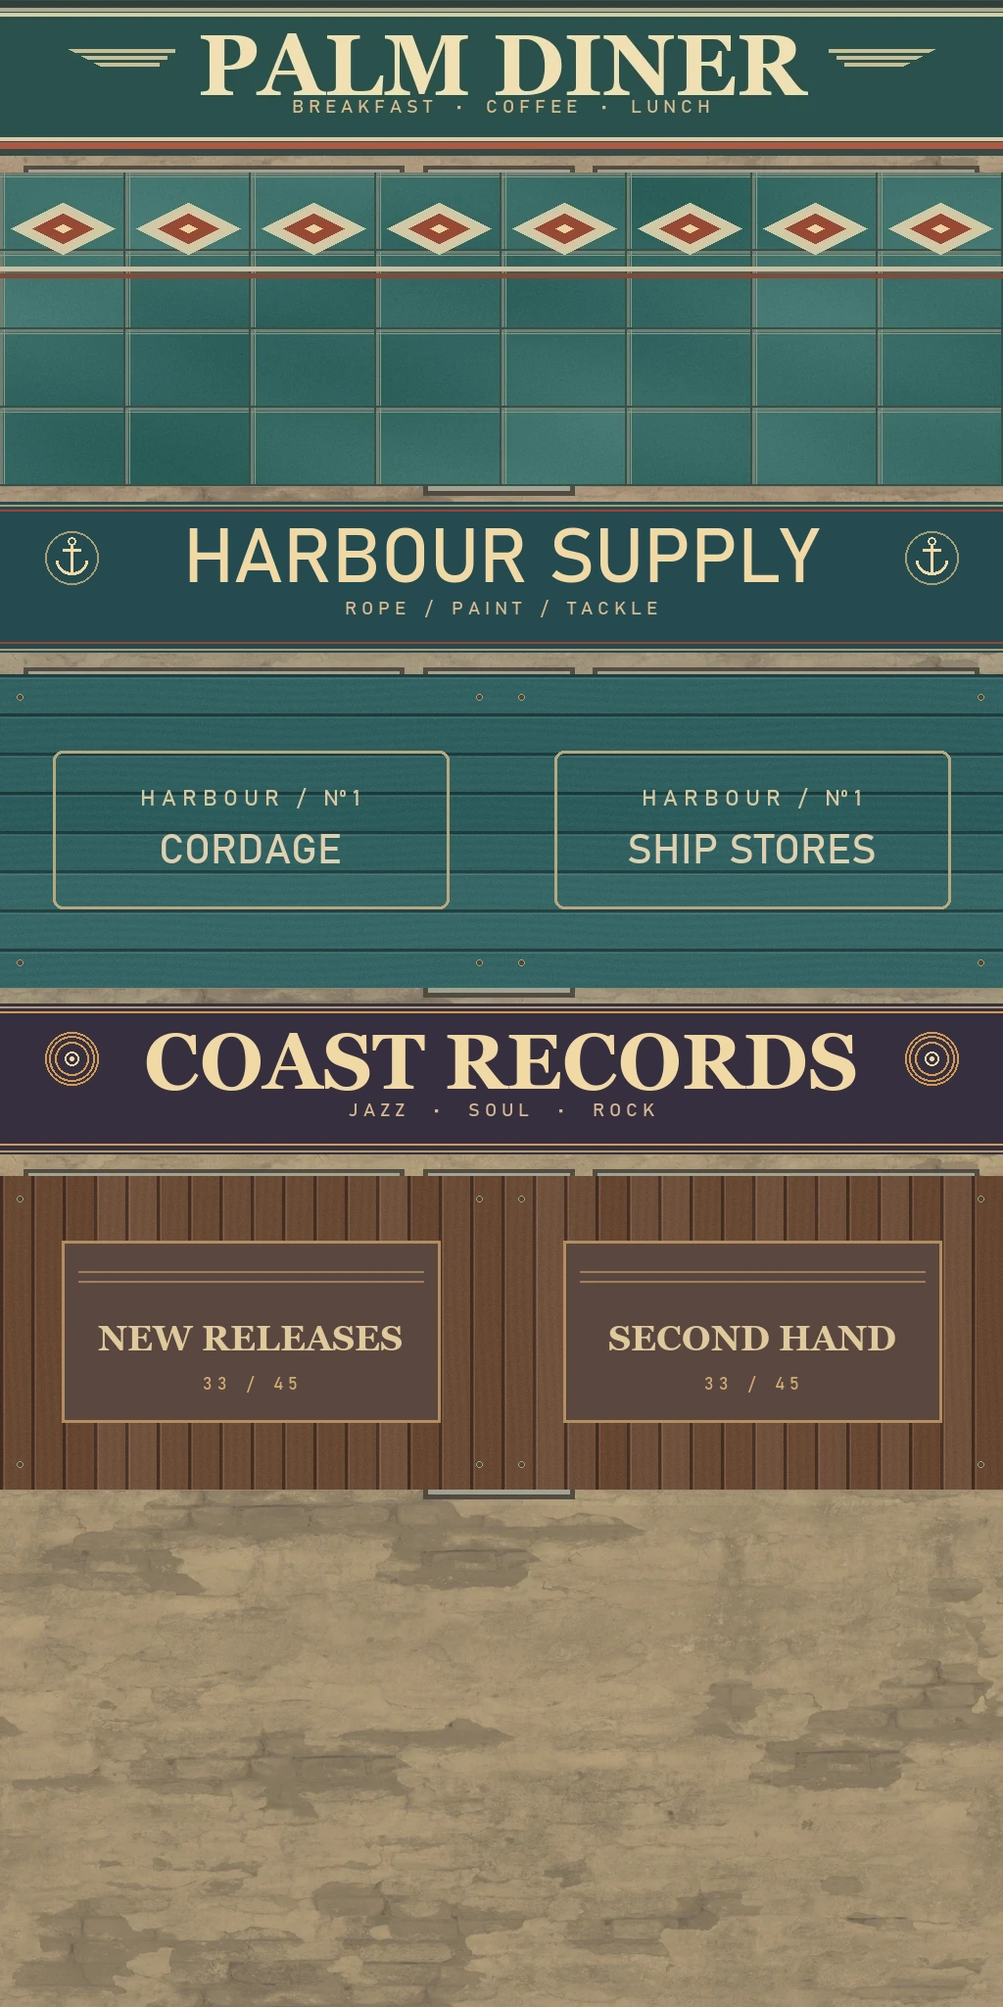
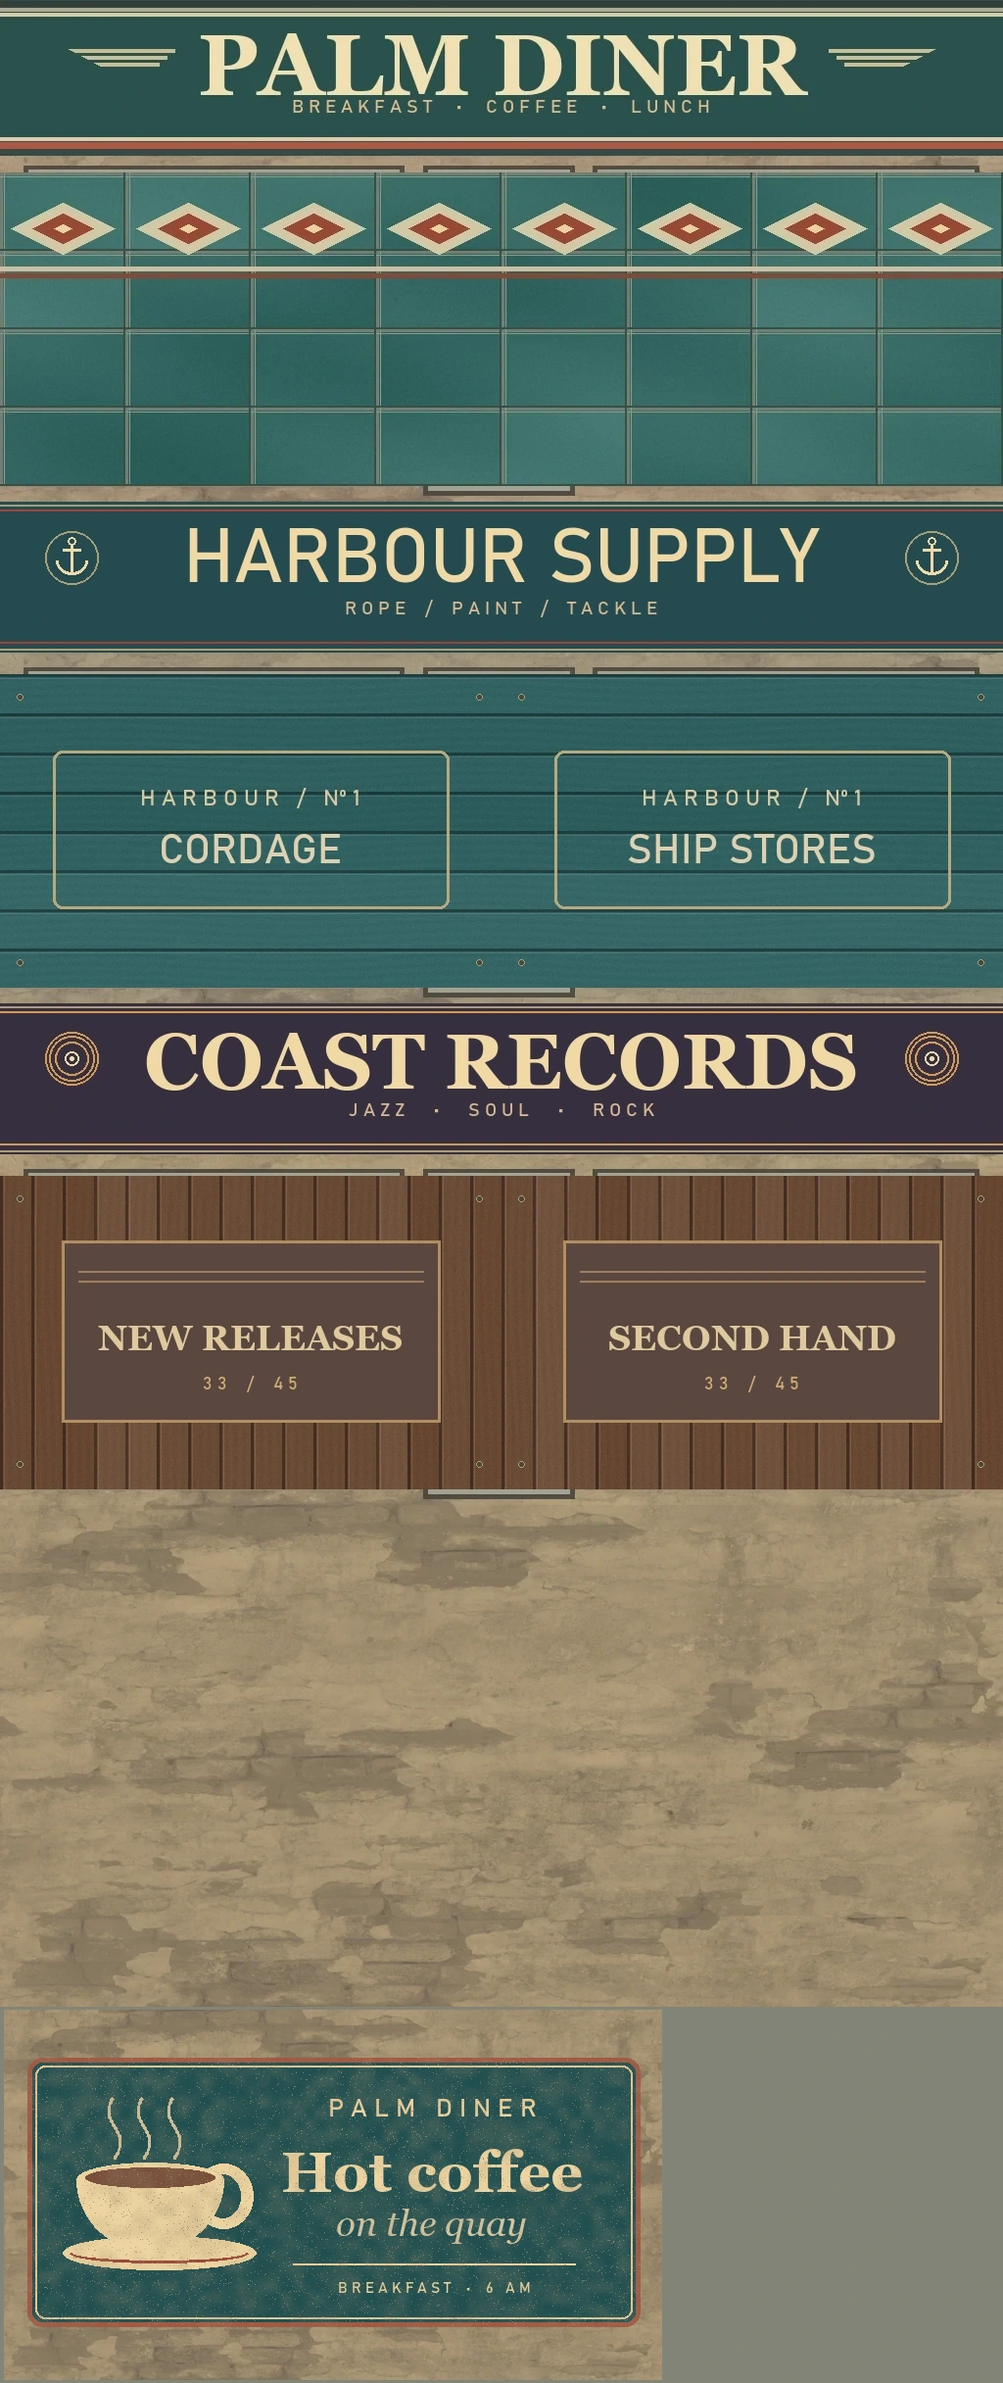
Skip redundant SMAA clears and detail Palm Diner wall

diff --git a/client/ReleaseNotes.tsx b/client/ReleaseNotes.tsx
@@ -6,7 +6,7 @@ const storageKey='eiserne-front-changelog';
 let acknowledgedInSession=false;
 const changes=[
  ['Island und Zeitreise','In der Lobby wählst du die Insel oder eine der drei historischen Karten. Kroenen ist in beiden Welten spielbar. Die übrigen Bonusfiguren und die Sprengrennwagen gehören zur Insel.'],
- ['Begehbare Harbour Road','Östlich der Radarstation liegen Palm Diner, Harbour Supply und Coast Records. Durch die offenen Eingänge gelangst du zu Sitznischen, Warenregalen und Plattenkisten. Die Läden haben eigene Böden, gerahmte Drucke, Verpackungen und Einrichtung. Bei Harbour Supply hängt ein illustrierter Musterkasten für Schiffszubehör samt aufgeschossener Leine. Im Palm Diner stehen Ketchup und Senf auf einem Emailletablett. Über dem Tresen hängt die illustrierte Frühstückskarte. Draußen greifen der petrolfarbene Fliesensockel und das neue Fassadenschild die Farben des Innenraums auf. Coast Records hat einen Hörplatz mit Holzlautsprechern und dem eigens gestalteten Albumcover „Low Water“. Harbour Supply und Coast Records haben eigene Fassadenschilder und beschriftete Schaufenstersockel. Pendelleuchten werfen warme Lichtkegel, und die Schaufenster haben profilierte Rahmen.'],
+ ['Begehbare Harbour Road','Östlich der Radarstation liegen Palm Diner, Harbour Supply und Coast Records. Durch die offenen Eingänge gelangst du zu Sitznischen, Warenregalen und Plattenkisten. Die Läden haben eigene Böden, gerahmte Drucke, Verpackungen und Einrichtung. Bei Harbour Supply hängt ein illustrierter Musterkasten für Schiffszubehör samt aufgeschossener Leine. Im Palm Diner stehen Ketchup und Senf auf einem Emailletablett. Über dem Tresen hängt die illustrierte Frühstückskarte. Draußen greifen der petrolfarbene Fliesensockel und das neue Fassadenschild die Farben des Innenraums auf. Die Ostwand trägt eine gemalte Kaffeereklame. Coast Records hat einen Hörplatz mit Holzlautsprechern und dem eigens gestalteten Albumcover „Low Water“. Harbour Supply und Coast Records haben eigene Fassadenschilder und beschriftete Schaufenstersockel. Pendelleuchten werfen warme Lichtkegel, und die Schaufenster haben profilierte Rahmen.'],
  ['Post vom Hafenamt','Die Geschäfte auf Island haben neue Aushänge. Außen an der Ostwand des Diners kannst du am Nachlassschalter mit E einen Bescheid ziehen. Auf Island hat die MP 40 einen Katzenaufsatz mit gedämpftem Schuss.'],
  ['Licht, Küste und Inselstraße','Ein fotografierter Himmel bestimmt Tageslicht und Reflexionen. Nebel und Nacht haben eigene Himmelsverläufe. Asphalt und Pflaster dunkeln bei Nebel durch Feuchtigkeit ab. Die Harbour Road führt durch eine ausgeschilderte Hafeneinfahrt zum Anleger und zum Hafenmeisterbüro. Durch die geöffneten Fenster siehst du das Funkpult, den Hafenplan und die Gezeitentafel. Hinter dem Anleger liegen Hafenkräne und der Frachter Tern Sound mit sichtbaren Stahlplattenstößen, Tiefgangsmarken, Ladebaum und Festmacherleinen. Am Ufer rollen gestaffelte Wellen mit schmalen Schaumkanten über nassen Sand, entlang der Straße wachsen Sträucher. Die Harbour Road hat einen Zebrastreifen, Straßenabläufe und einen gusseisernen Schachtdeckel mit Hafenanker und Schriftprägung. Gefaste Bordsteine, Pflasterrinnen und versetzte Betonplatten geben den Gehwegen ein eigenes Profil. Felsen haben verwitterte Oberflächen mit dunkleren Gezeitenzonen. Auf Hoch und Ultra zeichnen sich Lichtmuster im flachen Wasser ab. Werkstätten und Depots tragen Dachaufbauten, Fensterrahmen und Fallrohre. Die Radarplattform hat jetzt einen Fachwerkmast, Funkkästen und neu markierte Zugänge.'],
  ['Historische Architektur','In Köln und im Güterviertel findest du Bahnhofsuhren, eiserne Vordächer und gemauerte Gesimse. Der Deutzer Bahnhof hat ein neues Vordach, Wandlaternen und eine Abfahrtstafel am Vorplatz. Nachts leuchten die Laternen, der Fahrplan und einzelne Fenster der umliegenden Häuser. Hinter den Straßen setzen sich die Häuserzeilen bis zum Horizont fort. Höhere Grafikprofile zeigen zusätzliche Gauben und Dachaufbauten. Die Kölner Eisenbahnbrücke hat ausgearbeitete Stahlbögen, Querverbände und genietete Anschlussbleche. Am Rheinufer stehen Kaimauern mit Hochwassermarken, Auslässen und Landungstreppen. Die Wasseroberfläche zeigt Strömungsrippel. Natursteinplatten, Rinnen und Fahrspuren verbinden Kino und Güterbahnhof. Beladene Handkarren stehen im Güterhof. Die Gleise haben profilierte Schienen mit blanken Laufflächen, Befestigungen und gemaserten Schwellen. An Gleis 2 erkennst du die Paketannahme der Feldpost an ihrer Backsteinfassade und dem gemalten Schild. Am Ende der Gleise stehen ein Bahnwasserturm und ein Wasserkran. Am Turm sind gemauerte Bögen, vertiefte Fugen und genietete Bleche sichtbar. Über dem Kölner Rheinufer ragen die beiden gotischen Domtürme mit Maßwerk und abgestuften Spitzen auf. In den Alpen liegen gestaffelte Kalkgrate mit Schneefeldern hinter den Kasernen. Unterhalb der Grate stehen Fichten. Schneeverwehungen, Radspuren und festgetretene Wege verbinden die Kasernen mit der Passstraße. Auf den Dächern liegt ungleichmäßig verteilter Schnee. Roche-la-Croix hat eine befestigte Betonfront und eine stählerne Beobachtungsglocke.'],
@@ -15,7 +15,7 @@ const changes=[
  ['Zielfernrohre und historische Ausrüstung','Das Gewehr 43 mit ZF4 ergänzt den Karabiner 98k mit ZF39. Halte die rechte Maustaste für den vierfachen Zoom. Du kannst beim Zielen mit der linken Maustaste schießen.'],
  ['Zeichen und Auszeichnungen','In Köln und im Güterviertel findest du historische Luftschutzzeichen. Nach historischen Gefechten zeigt die Ergebnisansicht verdiente Auszeichnungen.'],
  ['Lobby und Fahrparcours','Die Spielauswahl nutzt auf großen Bildschirmen mehr Breite. Die Einsatzsteuerung sitzt unten. Im Inseltraining führt der Rennwagenparcours an der Küste durch eine Unterführung.'],
- ['Flüssigeres Umsehen','Beim Blick auf geschlossene Ladenwände begrenzt der Renderer die Sichttiefe auf den Raum und spart verdeckte Teile der Insel aus. In „Hoch“ und „Ultra“ aktualisiert das Spiel dort nur den sichtbaren Ausschnitt der Schattenkarte. Der Modus „Flüssig“ passt die interne Auflösung an die GPU-Auslastung an. Leuchtspuren werden gemeinsam gezeichnet. Staub und Metallfunken sehen unterschiedlich aus. Explosionen zeigen einen kurzen Feuerblitz und Staub, der sich ausbreitet. Zerbrechende Scheiben streuen unterschiedlich geformte Splitter, die zusammen gezeichnet werden. Uniformteile werden gemeinsam gezeichnet. Entfernte Standardfiguren nutzen beim normalen Blick ein leichteres Körpermodell. Hoch und Ultra richten den Wechsel nach der tatsächlichen Renderauflösung. Die offene Visierung behält diese Abstufung, das Zielfernrohr zeigt das Vollmodell. Entfernte Deckungskisten bekommen in „Hoch“ einfachere Schatten, auch wenn direkt vor dir eine Kiste steht. Kantenglättung und Farbausgabe teilen sich einen Renderdurchlauf. Das Spiel spart dabei einen HDR-Zwischenpuffer. Die Berechnung der Kontaktschatten verwendet kleinere Zwischenpuffer. Auf unterstützten Systemen bündelt der Renderer opake Fassaden auf Island in „Hoch“ und „Ultra“. Zierglasscheiben innerhalb massiver Fabrikwände entfallen beim Rendern. Beim Blick auf geschlossene Ladenwände entfällt auch der Himmelsdurchlauf. Die Abschussliste und die persönliche Statusanzeige werden nur bei sichtbaren Änderungen neu aufgebaut. Das Spiel erstellt abgelegte Figuren mit weniger Rechenarbeit. Bots können den zuvor versperrten Ausrüstungspunkt auf Island erreichen. HUD und Menüs bleiben scharf.'],
+ ['Flüssigeres Umsehen','Beim Blick auf geschlossene Ladenwände begrenzt der Renderer die Sichttiefe auf den Raum und spart verdeckte Teile der Insel aus. In „Hoch“ und „Ultra“ aktualisiert das Spiel dort nur den sichtbaren Ausschnitt der Schattenkarte. Der Modus „Flüssig“ passt die interne Auflösung an die GPU-Auslastung an. Leuchtspuren werden gemeinsam gezeichnet. Staub und Metallfunken sehen unterschiedlich aus. Explosionen zeigen einen kurzen Feuerblitz und Staub, der sich ausbreitet. Zerbrechende Scheiben streuen unterschiedlich geformte Splitter, die zusammen gezeichnet werden. Uniformteile werden gemeinsam gezeichnet. Entfernte Standardfiguren nutzen beim normalen Blick ein leichteres Körpermodell. Hoch und Ultra richten den Wechsel nach der tatsächlichen Renderauflösung. Die offene Visierung behält diese Abstufung, das Zielfernrohr zeigt das Vollmodell. Entfernte Deckungskisten bekommen in „Hoch“ einfachere Schatten, auch wenn direkt vor dir eine Kiste steht. Kantenglättung und Farbausgabe teilen sich einen Renderdurchlauf. Das Spiel spart dabei einen HDR-Zwischenpuffer und zwei überflüssige Löschvorgänge in der Kantenglättung. Die Berechnung der Kontaktschatten verwendet kleinere Zwischenpuffer. Auf unterstützten Systemen bündelt der Renderer opake Fassaden auf Island in „Hoch“ und „Ultra“. Zierglasscheiben innerhalb massiver Fabrikwände entfallen beim Rendern. Beim Blick auf geschlossene Ladenwände entfällt auch der Himmelsdurchlauf. Die Abschussliste und die persönliche Statusanzeige werden nur bei sichtbaren Änderungen neu aufgebaut. Das Spiel erstellt abgelegte Figuren mit weniger Rechenarbeit. Bots können den zuvor versperrten Ausrüstungspunkt auf Island erreichen. HUD und Menüs bleiben scharf.'],
 ] as const;
 
 export function ReleaseNotes(){

diff --git a/client/islandStreet.ts b/client/islandStreet.ts
@@ -97,6 +97,7 @@ export function addIslandStreet(scene:T.Group){
   const cover=solid(lid,57.2,.071,-24.85,pavingMaterial);cover.rotation.x=-Math.PI/2;
   const atlas=loader.load(base+'shops.webp');atlas.colorSpace=T.SRGBColorSpace;atlas.anisotropy=4;
   const facade=new T.MeshStandardMaterial({map:atlas,roughness:.93});
+  const facadeV=(originalV:number)=>(384+2048*originalV)/2432;
   const prints=loader.load(base+'interior-prints.webp');
   prints.colorSpace=T.SRGBColorSpace;prints.anisotropy=4;
   const printMaterial=new T.MeshStandardMaterial({map:prints,roughness:.9});
@@ -143,7 +144,12 @@ export function addIslandStreet(scene:T.Group){
         const wall=cuboid(x,y,z,w,h,d,facade),uv=wall.geometry.getAttribute('uv');
         for(let face=0;face<6;face++)for(let n=0;n<4;n++){
           const i=face*4+n,lettering=role==='sign'&&face===(s.front===1?4:5);
-          uv.setXY(i,.001+.998*uv.getX(i),lettering?(3-index+.70+.298*uv.getY(i))/4:(.003+.99*uv.getY(i))/4);
+          if(s.id==='diner'&&role==='side'&&x>s.x&&face===0){
+            // The east wall faces the open stretch of street toward the quay.
+            uv.setXY(i,(5+670*uv.getX(i))/1024,1-(2428-376*uv.getY(i))/2432);
+          }else{
+            uv.setXY(i,.001+.998*uv.getX(i),facadeV(lettering?(3-index+.70+.298*uv.getY(i))/4:(.003+.99*uv.getY(i))/4));
+          }
         }
       }else if(role==='roof'&&s.id==='diner'){
         cuboid(x,y,z,w,h,d,iron);
@@ -335,7 +341,7 @@ export function addIslandStreet(scene:T.Group){
           // Fired tile bulkhead and separate steel expansion joints under the enamel sign.
           // The original facade atlas also supplies the lettering, so both share its batch.
           const tiles=new T.PlaneGeometry(frameWidth/3,.59),uv=tiles.getAttribute('uv');
-          for(let i=0;i<uv.count;i++)uv.setXY(i,.002+.996*uv.getX(i),1-(494-316*uv.getY(i))/2048);
+          for(let i=0;i<uv.count;i++)uv.setXY(i,.002+.996*uv.getX(i),1-(494-316*uv.getY(i))/2432);
           solid(tiles,center,.525,frontZ+.085,facade).castShadow=true;
           cuboid(center-frameWidth/6+.011,.525,frontZ+.089,.023,.60,.033,chrome).castShadow=false;
           continue;
@@ -346,7 +352,7 @@ export function addIslandStreet(scene:T.Group){
           // of the shop's own atlas strip for each window, viewed from the street.
           const plaque=new T.PlaneGeometry(panelWidth-.055,.40),uv=plaque.getAttribute('uv');
           const u=direction<0?.502:.002;
-          for(let i=0;i<uv.count;i++)uv.setXY(i,u+.496*uv.getX(i),1-(index*512+432-200*uv.getY(i))/2048);
+          for(let i=0;i<uv.count;i++)uv.setXY(i,u+.496*uv.getX(i),1-(index*512+432-200*uv.getY(i))/2432);
           const face=solid(plaque,center,.477,frontZ+s.front*.093,facade);
           face.rotation.y=Math.PI;face.castShadow=true;
           continue;

diff --git a/tests/smaa-clears.test.ts b/tests/smaa-clears.test.ts
@@ -1,0 +1,32 @@
+import assert from 'node:assert/strict';
+import test from 'node:test';
+import { ShaderMaterial, type WebGLRenderer } from 'three';
+import { FullScreenQuad } from 'three/examples/jsm/postprocessing/Pass.js';
+import { skipRedundantSmaaClears } from '../client/smaaClears';
+
+test('SMAA keeps the edge clear and restores renderer state after each full write', () => {
+  const edges = new ShaderMaterial(), weights = new ShaderMaterial(), blend = new ShaderMaterial();
+  const quad = new FullScreenQuad(edges);
+  const renderer = { autoClear: true } as WebGLRenderer;
+  const clears: boolean[] = [];
+  let fail = false;
+  quad.render = r => {
+    clears.push(r.autoClear);
+    if (fail) throw Error('interrupted draw');
+  };
+  skipRedundantSmaaClears({ fsQuad: quad, materialWeights: weights, materialBlend: blend });
+  for (const material of [edges, weights, blend]) {
+    quad.material = material;
+    quad.render(renderer);
+    assert.equal(renderer.autoClear, true);
+    assert.equal(material.depthTest, material === edges);
+    assert.equal(material.depthWrite, material === edges);
+  }
+  assert.deepEqual(clears, [true, false, false]);
+  fail = true;
+  for (const value of [true, false]) {
+    renderer.autoClear = value;
+    assert.throws(() => quad.render(renderer), /interrupted draw/);
+    assert.equal(renderer.autoClear, value);
+  }
+});

diff --git a/client/graphics.ts b/client/graphics.ts
@@ -4,6 +4,7 @@ import { RenderPass } from 'three/examples/jsm/postprocessing/RenderPass.js';
 import { WorldOcclusionPass } from './worldOcclusionPass';
 import { UnrealBloomPass } from 'three/examples/jsm/postprocessing/UnrealBloomPass.js';
 import { SMAAPass } from 'three/examples/jsm/postprocessing/SMAAPass.js';
+import {skipRedundantSmaaClears} from './smaaClears';
 import {ShaderPass} from 'three/examples/jsm/postprocessing/ShaderPass.js';
 import {fxaaOutputShader} from './fxaaOutput';
 import { graphicsPresets, renderPixelRatio, ResolutionGovernor, type GraphicsQuality } from './graphicsSettings.ts';
@@ -39,6 +40,7 @@ export function createGraphics(renderer: T.WebGLRenderer, scene: T.Scene,
   ao.kernelRadius = .65;
   const bloom = new UnrealBloomPass(new T.Vector2(1, 1), .075, .3, 1.65);
   const smaa = new SMAAPass(1, 1);
+  skipRedundantSmaaClears(smaa);
   // SMAA reads only red and green edge flags. RG16F preserves their filtered values.
   smaa.edgesRT.texture.format = T.RGFormat;
   const blendOutput='gl_FragColor = SMAANeighborhoodBlendingPS( vUv, vOffset, tColor, tDiffuse );';

diff --git a/client/smaaClears.ts b/client/smaaClears.ts
@@ -1,0 +1,19 @@
+import type { SMAAPass } from 'three/examples/jsm/postprocessing/SMAAPass.js';
+
+export function skipRedundantSmaaClears(pass: Pick<SMAAPass, 'fsQuad' | 'materialWeights' | 'materialBlend'>) {
+  for (const material of [pass.materialWeights, pass.materialBlend]) {
+    material.depthTest = false;
+    material.depthWrite = false;
+  }
+  const quad = pass.fsQuad, draw = quad.render.bind(quad);
+  quad.render = renderer => {
+    // The edge shader discards pixels. Only the subsequent two full writes can skip the clear.
+    if (quad.material !== pass.materialWeights && quad.material !== pass.materialBlend) {
+      draw(renderer);
+      return;
+    }
+    const previous = renderer.autoClear;
+    renderer.autoClear = false;
+    try { draw(renderer); } finally { renderer.autoClear = previous; }
+  };
+}

diff --git a/tests/harbour-road-battle.py b/tests/harbour-road-battle.py
@@ -36,14 +36,31 @@ def write_report(path, report):
     temporary.replace(path)
 
 
-def walk(page, x, z):
+class TurnLifeInterrupted(AssertionError):
+    pass
+
+
+def verify_life(hp, life, expected, site):
+    if hp<=0 or life!=expected:
+        raise TurnLifeInterrupted((site,expected,life,hp))
+
+
+def recover_life(page):
+    page.wait_for_function('harbourQA.player.hp>0',timeout=20000)
+    if not page.evaluate('!!document.pointerLockElement'):
+        page.locator('.city-canvas').click(force=True)
+
+
+def walk(page, x, z, *, life=None):
     deadline = time.monotonic() + 45
     previous = None
     last_turn = 0
     try:
         while time.monotonic() < deadline:
-            px, pz, yaw, hp = page.evaluate('()=>{const p=harbourQA.player;return [p.x,p.z,p.yaw,p.hp]}')
-            assert hp > 0, ('Player fell', px, pz)
+            px, pz, yaw, hp, current_life = page.evaluate('()=>{const p=harbourQA.player;return [p.x,p.z,p.yaw,p.hp,p.life]}')
+            if life is None:
+                life=current_life
+            verify_life(hp,current_life,life,(x,z))
             distance = math.hypot(px-x, pz-z)
             if distance < .60:
                 return
@@ -72,10 +89,6 @@ def walk(page, x, z):
 
 def mouse(page, dx):
     page.evaluate("dx=>document.dispatchEvent(new MouseEvent('mousemove',{movementX:dx,bubbles:true}))", dx)
-
-
-class TurnLifeInterrupted(AssertionError):
-    pass
 
 
 def measure(page, name):
@@ -378,16 +391,17 @@ with sync_playwright() as pw:
             return [b for a,b,c in zip(path,path[1:],path[2:]) if a[0]!=c[0] and a[1]!=c[1]]+[goal]
         for attempt in range(4):
             try:
+                life=page.evaluate('harbourQA.player.life')
                 route=find_route()
                 print('Street approach',route,flush=True)
                 for x,z in route:
-                    walk(page,x,z)
+                    walk(page,x,z,life=life)
                 return
-            except AssertionError:
-                if attempt==3 or page.evaluate('harbourQA.player.hp>0'):
+            except TurnLifeInterrupted as event:
+                if attempt==3:
                     raise
-                page.wait_for_function('harbourQA.player.hp>0',timeout=20000)
-                page.locator('.city-canvas').click(force=True)
+                print('Anmarsch nach Gefechtstod erneut geplant:',event,flush=True)
+                recover_life(page)
     if map_id != 'storm' or os.environ.get('BATTLE_SPAWN_TURNS')=='1' or COMBAT_MOVEMENT:
         # Short walk from the regular western team spawn, then look both ways in the street.
         if map_id=='storm' and COMBAT_MOVEMENT:
@@ -457,10 +471,11 @@ with sync_playwright() as pw:
     for name,x,inside,door in [('Harbour Supply',51,-9,-18),('Diner',63,-36,-28),('Coast Records',75,-9,-18)]:
         for attempt in range(3):
             try:
-                walk(page,x,-23)
+                life=page.evaluate('harbourQA.player.life')
+                walk(page,x,-23,life=life)
                 page.evaluate('window.turnStarted=performance.now();harbourQA.scene.profileFrames(3000)')
-                walk(page,x,door)
-                walk(page,x,inside)
+                walk(page,x,door,life=life)
+                walk(page,x,inside,life=life)
                 entry=read_profile(page,name+' entrance')
                 print('Entered',name,flush=True)
                 if os.environ.get('HARBOUR_SCREENSHOTS')=='1':
@@ -469,16 +484,18 @@ with sync_playwright() as pw:
                     page.evaluate('new Promise(resolve=>requestAnimationFrame(()=>requestAnimationFrame(resolve)))')
                 result=measure(page,name)
                 page.evaluate('window.turnStarted=performance.now();harbourQA.scene.profileFrames(3000)')
-                walk(page,x,door)
-                walk(page,x,-23)
-                results.append(dict(entry=entry,turn=result,exit=read_profile(page,name+' exit')))
+                walk(page,x,door,life=life)
+                walk(page,x,-23,life=life)
+                hp,current_life=page.evaluate('[harbourQA.player.hp,harbourQA.player.life]')
+                verify_life(hp,current_life,life,name)
+                results.append(dict(entry=entry,turn=result,exit=read_profile(page,name+' exit'),attempt=attempt+1))
                 write_report(checkpoint,report)
                 break
-            except AssertionError:
-                if attempt==2 or page.evaluate('harbourQA.player.hp>0'):
+            except TurnLifeInterrupted as event:
+                if attempt==2:
                     raise
-                page.wait_for_function('harbourQA.player.hp>0',timeout=20000)
-                page.locator('.city-canvas').click(force=True)
+                print(name,'nach Gefechtstod erneut gestartet:',event,flush=True)
+                recover_life(page)
                 approach()
         print('Exited',name,flush=True)
     page.screenshot(path=str(OUT/f'island-live-{width}x{height}.jpg'),type='jpeg',quality=88)
